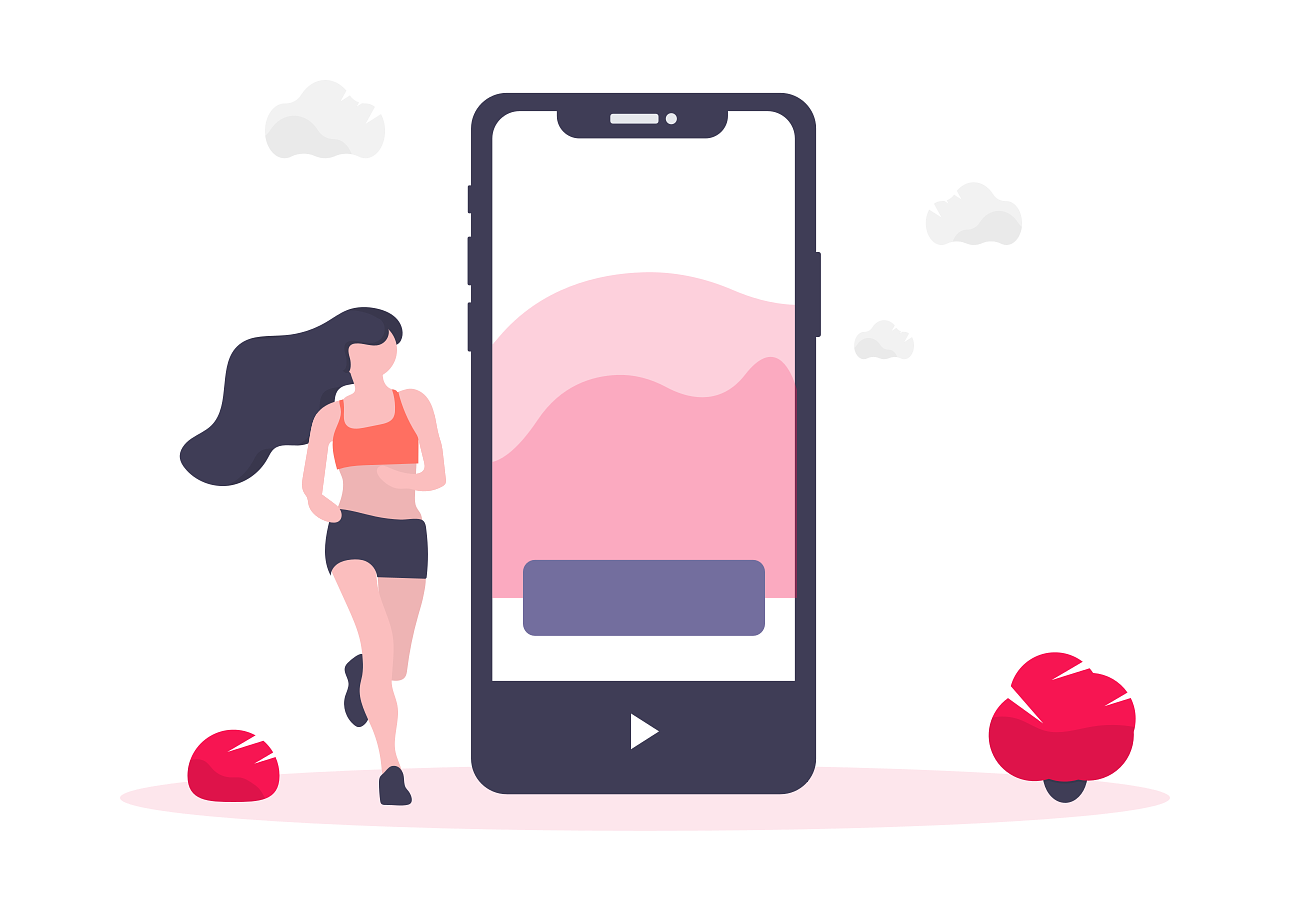
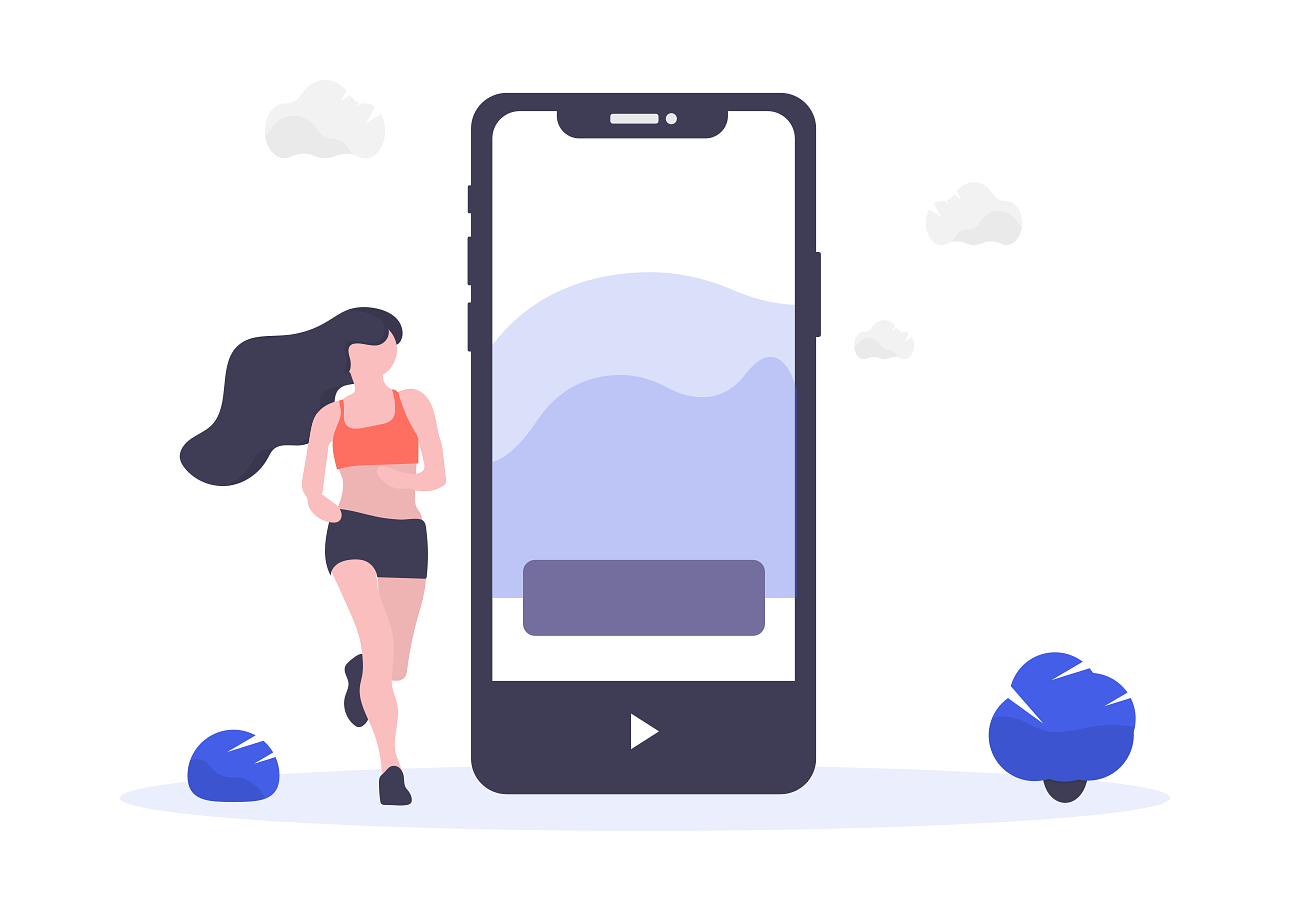
[Feat] Swiper Animation & Theme color changes

Changed region(s): [[0.3721, 0.2766, 0.6202, 0.6762], [0.7442, 0.7069, 0.8992, 0.8606], [0.124, 0.7991, 0.2171, 0.8913]]

diff --git a/src/generals/components/Swiper.tsx b/src/generals/components/Swiper.tsx
@@ -6,11 +6,11 @@ import {
   StyleSheet,
   NativeSyntheticEvent,
   NativeScrollEvent,
+  Animated,
 } from 'react-native';
-import {LinearGradient} from 'expo';
 
-import {RED, RED30} from '../constants/colors';
-import {SCREEN_WIDTH} from '../constants/size';
+import {BLUE, BLUE30, WHITE} from '../constants/colors';
+import {SCREEN_WIDTH, MEDIUM_FONT_SIZE} from '../constants/size';
 import {Text} from '../core-ui';
 
 /**
@@ -26,26 +26,41 @@ import {Text} from '../core-ui';
  *
  * __children__: Pages to be rendered.
  *
+ * __onFinish__: Function to trigger when pressing button rendered on last children
+ *
  */
 
 type Props = {
   children: ReactNode;
+  onFinish: () => void;
 };
 
 type State = {
   activeIndex: number;
+  buttonAnimateValue: Animated.Value;
+  dotAnimateValue: Array<Animated.Value>;
 };
 
 export default class Swiper extends Component<Props, State> {
-  state = {
+  state: State = {
     activeIndex: 0,
+    buttonAnimateValue: new Animated.Value(0),
+    dotAnimateValue: [],
   };
 
   _scrollView?: ScrollView;
 
   render() {
-    let {children} = this.props;
-    let {activeIndex} = this.state;
+    let {children, onFinish} = this.props;
+    let {activeIndex, buttonAnimateValue, dotAnimateValue} = this.state;
+    let childrenCount = React.Children.count(children);
+
+    let buttonAnimateStyle = {
+      bottom: buttonAnimateValue.interpolate({
+        inputRange: [0, 1],
+        outputRange: [-50, 15],
+      }),
+    };
 
     return (
       <Fragment>
@@ -61,33 +76,92 @@ export default class Swiper extends Component<Props, State> {
           })}
         </ScrollView>
 
-        <LinearGradient
-          colors={['rgba(255,255,255,0)', 'rgba(255,255,255,0.8)', 'white']}
-          style={styles.footer}
-        >
-          <View style={styles.dotContainer}>
-            {React.Children.map(children, (_item, index) => {
-              let onPress = () => this._goToPage(index);
-              return (
-                <TouchableOpacity
-                  onPress={onPress}
-                  style={[
-                    styles.dot,
-                    {
-                      backgroundColor: index === activeIndex ? RED : RED30,
-                    },
-                  ]}
-                />
-              );
-            })}
+        {activeIndex !== childrenCount - 1 && (
+          <View style={styles.footer}>
+            <View style={styles.dotContainer}>
+              {React.Children.map(children, (_item, index) => {
+                let onPress = () => this._goToPage(index);
+                let dotAnimateStyle = {
+                  width: dotAnimateValue[index].interpolate({
+                    inputRange: [0, 1],
+                    outputRange: [10, 30],
+                  }),
+                };
+
+                return (
+                  <TouchableOpacity onPress={onPress}>
+                    <Animated.View
+                      style={[
+                        styles.dot,
+                        {
+                          backgroundColor:
+                            index === activeIndex ? BLUE : BLUE30,
+                        },
+                        dotAnimateStyle,
+                      ]}
+                    />
+                  </TouchableOpacity>
+                );
+              })}
+            </View>
+            <TouchableOpacity onPress={this._nextPage}>
+              <Text style={{color: BLUE}}>Next</Text>
+            </TouchableOpacity>
           </View>
-          <TouchableOpacity onPress={this._nextPage}>
-            <Text style={{color: RED}}>Next</Text>
+        )}
+
+        <Animated.View style={[styles.footerButton, buttonAnimateStyle]}>
+          <TouchableOpacity onPress={onFinish} style={styles.clickableArea}>
+            <Text
+              fontWeight="bold"
+              fontSize={MEDIUM_FONT_SIZE}
+              style={{color: WHITE}}
+            >
+              Get Started
+            </Text>
           </TouchableOpacity>
-        </LinearGradient>
+        </Animated.View>
       </Fragment>
     );
   }
+
+  componentWillMount() {
+    let {children} = this.props;
+    let dotAnimatedValueArr = React.Children.map(children, (_item, index) => {
+      if (index === 0) return new Animated.Value(1);
+      return new Animated.Value(0);
+    });
+
+    this.setState({dotAnimateValue: dotAnimatedValueArr});
+  }
+
+  componentDidUpdate(_prevProps: Props, prevState: State) {
+    let {children} = this.props;
+    let {activeIndex, dotAnimateValue} = this.state;
+    let childrenCount = React.Children.count(children);
+    if (activeIndex === childrenCount - 1) this._startAnimation(1);
+    else this._startAnimation(0);
+
+    if (prevState.activeIndex != activeIndex) {
+      Animated.timing(dotAnimateValue[activeIndex], {
+        toValue: 1,
+        duration: 200,
+      }).start();
+
+      Animated.timing(dotAnimateValue[prevState.activeIndex], {
+        toValue: 0,
+        duration: 200,
+      }).start();
+    }
+  }
+
+  _startAnimation = (toValue: number) => {
+    let {buttonAnimateValue} = this.state;
+    Animated.timing(buttonAnimateValue, {
+      toValue,
+      duration: 200,
+    }).start();
+  };
 
   _setScrollViewRef = (scrollView: ScrollView) =>
     (this._scrollView = scrollView);
@@ -111,14 +185,20 @@ export default class Swiper extends Component<Props, State> {
   _nextPage = () => {
     let {children} = this.props;
     let {activeIndex} = this.state;
-    if (activeIndex < React.Children.count(children) - 1)
+    if (activeIndex < React.Children.count(children) - 1) {
       this._goToPage(activeIndex + 1);
-    else this._goToPage(0);
+    } else {
+      this._goToPage(0);
+    }
   };
 }
 
 const styles = StyleSheet.create({
-  dot: {width: 10, height: 10, borderRadius: 5, margin: 5},
+  dot: {
+    height: 10,
+    borderRadius: 5,
+    margin: 5,
+  },
   footer: {
     flexDirection: 'row',
     alignItems: 'center',
@@ -131,6 +211,22 @@ const styles = StyleSheet.create({
   dotContainer: {
     flex: 1,
     flexDirection: 'row',
+    alignItems: 'center',
+  },
+  footerButton: {
+    justifyContent: 'center',
+    alignItems: 'center',
+    position: 'absolute',
+    height: 50,
+    width: '90%',
+    borderRadius: 10,
+    backgroundColor: BLUE,
+    alignSelf: 'center',
+  },
+  clickableArea: {
+    width: '100%',
+    flex: 1,
+    justifyContent: 'center',
     alignItems: 'center',
   },
 });

diff --git a/src/scenes/OnBoarding/OnBoardingScene.tsx b/src/scenes/OnBoarding/OnBoardingScene.tsx
@@ -1,4 +1,4 @@
-import React from 'react';
+import React, {Component} from 'react';
 import {View, StyleSheet} from 'react-native';
 import {Swiper} from '../../generals/components';
 import OnBoardingItem from './OnBoardingItem';
@@ -7,29 +7,41 @@ import {
   heartRate,
   personalTrainer,
 } from '../../assets/images/onBoarding';
+import {NavigationScreenProp} from 'react-navigation';
 
-export default function OnBoardingScene() {
-  return (
-    <View style={styles.root}>
-      <Swiper>
-        <OnBoardingItem
-          title="Fitness Tracker"
-          content="Lorem ipsum"
-          image={fitnessTracker}
-        />
-        <OnBoardingItem
-          title="Max Heart Rate"
-          content="Lorem ipsum"
-          image={heartRate}
-        />
-        <OnBoardingItem
-          title="Personal Trainer"
-          content="Lorem ipsum"
-          image={personalTrainer}
-        />
-      </Swiper>
-    </View>
-  );
+type Props = {
+  navigation: NavigationScreenProp<any, any>;
+};
+
+export default class OnBoardingScene extends Component<Props, {}> {
+  render() {
+    let {navigation} = this.props;
+    return (
+      <View style={styles.root}>
+        <Swiper
+          onFinish={() =>
+            navigation.navigate('Login', {previous_scene: 'OnBoarding'})
+          }
+        >
+          <OnBoardingItem
+            title="Fitness Tracker"
+            content="Lorem ipsum"
+            image={fitnessTracker}
+          />
+          <OnBoardingItem
+            title="Max Heart Rate"
+            content="Lorem ipsum"
+            image={heartRate}
+          />
+          <OnBoardingItem
+            title="Personal Trainer"
+            content="Lorem ipsum"
+            image={personalTrainer}
+          />
+        </Swiper>
+      </View>
+    );
+  }
 }
 
 const styles = StyleSheet.create({

diff --git a/src/generals/routes/Main.tsx b/src/generals/routes/Main.tsx
@@ -8,8 +8,27 @@ import {
 } from 'react-navigation';
 import {Feather as Icon} from '@expo/vector-icons';
 import {Toolbar} from '../components';
-import {DashboardScene, OnBoardingScene} from '../../scenes';
-import {GREY, RED} from '../constants/colors';
+import {DashboardScene, LoginScene, OnBoardingScene} from '../../scenes';
+import {GREY, BLUE} from '../constants/colors';
+
+let AuthStack = createStackNavigator({
+  OnBoard: {
+    screen: OnBoardingScene,
+    navigationOptions: () => ({
+      header: null,
+    }),
+  },
+  Login: {
+    screen: LoginScene,
+    navigationOptions: ({
+      navigation,
+    }: {
+      navigation: NavigationScreenProp<any>;
+    }) => ({
+      header: <Toolbar navigation={navigation} />,
+    }),
+  },
+});
 
 let DashboardStack = createStackNavigator({
   Home: {
@@ -40,7 +59,7 @@ let BottomTab = createBottomTabNavigator(
       showLabel: false,
       showIcon: true,
       inactiveTintColor: GREY,
-      activeTintColor: RED,
+      activeTintColor: BLUE,
       style: {
         backgroundColor: 'transparent',
         borderTopWidth: 0,
@@ -51,7 +70,7 @@ let BottomTab = createBottomTabNavigator(
 );
 
 let MainSwitch = createSwitchNavigator({
-  OnBoarding: OnBoardingScene,
+  OnBoarding: AuthStack,
   Main: BottomTab,
   Auth: DashboardStack,
 });

diff --git a/src/scenes/Dashboard/DashboardScene.tsx b/src/scenes/Dashboard/DashboardScene.tsx
@@ -2,7 +2,7 @@ import React from 'react';
 import {View, StyleSheet} from 'react-native';
 import {Text} from '../../generals/core-ui';
 import {MEDIUM_FONT_SIZE, LARGE_FONT_SIZE} from '../../generals/constants/size';
-import {RED} from '../../generals/constants/colors';
+import {BLUE} from '../../generals/constants/colors';
 
 export default function DashboardScene() {
   return (
@@ -20,7 +20,7 @@ export default function DashboardScene() {
           <Text
             fontWeight="light"
             fontSize={MEDIUM_FONT_SIZE}
-            style={{color: RED}}
+            style={{color: BLUE}}
           >
             504 cals
           </Text>{' '}

diff --git a/src/generals/constants/colors.ts b/src/generals/constants/colors.ts
@@ -6,12 +6,12 @@ export const WHITE = '#FFF';
 export const BLACK60 = 'rgba(0, 0, 0, 0.6)';
 export const DARK_GREY50 = 'rgba(45, 45, 45, 0.5)';
 export const PURPLE = '#7D448E';
-export const RED = '#F71552';
-export const RED30 = '#FED5DF';
+export const BLUE = '#445EE8';
+export const BLUE30 = 'rgba(68, 94, 232, 0.3)';
 
 export const DEFAULT_TEXT_COLOR = BLACK;
 export const LIGHT_TEXT_COLOR = LIGHT_GREY;
 export const DEFAULT_ICON_COLOR = LIGHT_GREY;
 export const DEFAULT_BORDER_COLOR = LIGHT_GREY;
 export const DEFAULT_BACKGROUND_COLOR = WHITE;
-export const DEFAULT_THEME_COLOR = RED;
+export const DEFAULT_THEME_COLOR = BLUE;

diff --git a/src/scenes/OnBoarding/OnBoardingItem.tsx b/src/scenes/OnBoarding/OnBoardingItem.tsx
@@ -45,6 +45,7 @@ const styles = StyleSheet.create({
   },
   textContainer: {
     flex: 2,
+    alignItems: 'center',
     paddingHorizontal: 20,
   },
 });
